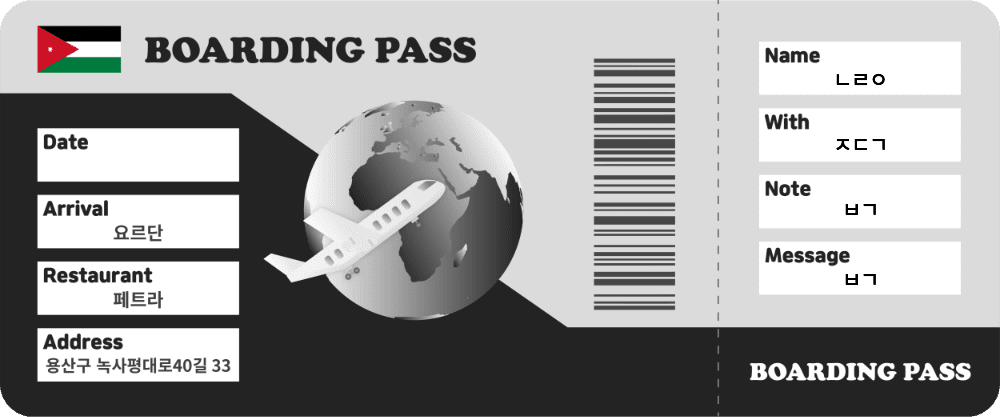
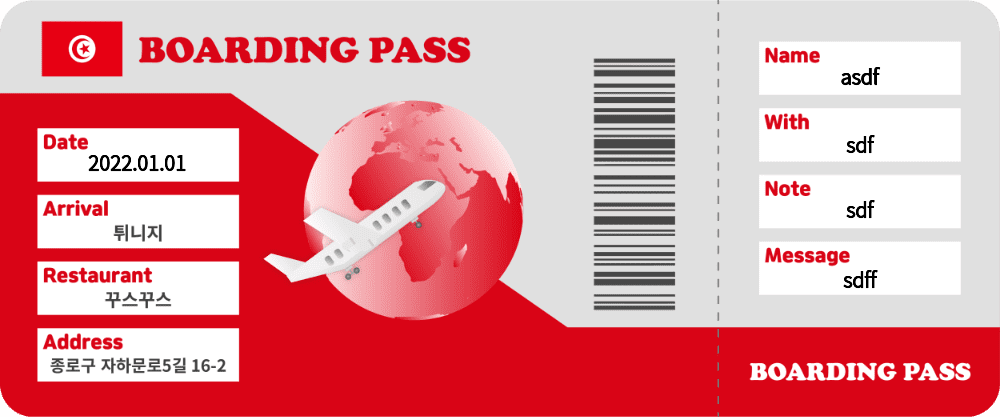
티켓 날짜

diff --git a/app/controllers/map_controller.rb b/app/controllers/map_controller.rb
@@ -13,10 +13,10 @@ class MapController < ApplicationController
         temp_img.combine_options do |c|
 
             c.gravity 'Center'
-            c.draw "text 0, 0 '#{@ticket.datepick}'"
+            c.draw "text -363, -47'#{@ticket.datepick}'"
 
             c.gravity 'Center'
-            c.draw "text 360, -130 '#{@ticket.name}'"
+            c.draw "text 360, -133 '#{@ticket.name}'"
 
             c.gravity 'Center'
             c.draw "text 360, -65 '#{@ticket.with}'"
